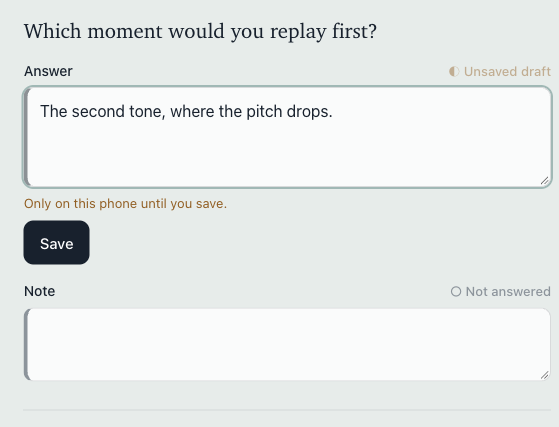
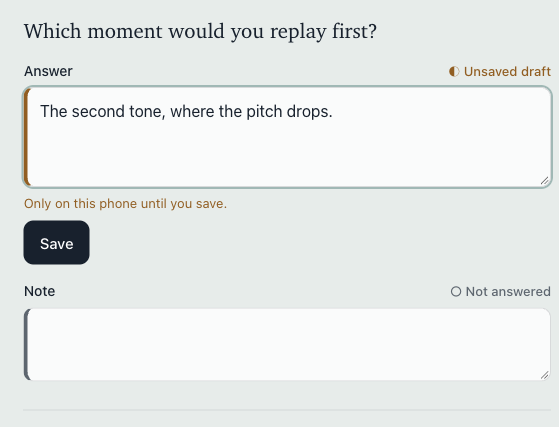
fix(phone-sync): P2a review round 1 (contrast, first-load fade, clamp/scrub tests)
- T2: "Not answered" tone #8A949C -> #5B6670 (about 4.9:1 on the ground); the hollow glyph stays.
- P7: status labels fade in on a state change only, never on first load or when heads arrive.
- F2: the reviewer's three player tests, verbatim: upper and lower seek clamp, and no
  timeupdate yank while scrubbing.
- P1: capture waits for transitions to settle before the draft and speed stills; proof regenerated.

diff --git a/examples/phone-sync-prototype/capsule/client/sync.tsx b/examples/phone-sync-prototype/capsule/client/sync.tsx
@@ -1,6 +1,6 @@
 /** @jsxImportSource preact */
 import type { ComponentChildren } from "preact";
-import { useEffect, useState } from "preact/hooks";
+import { useEffect, useRef, useState } from "preact/hooks";
 import { FIXTURE } from "../shared/protocol";
 import { Player, press } from "./player";
 
@@ -17,7 +17,7 @@ type State = "empty" | "draft" | "saving" | "saved";
 const serif = "[font-family:Charter,'Iowan_Old_Style','Palatino_Linotype',Georgia,serif]";
 const QUESTIONS = [["q-orbit-r1", "Which moment would you replay first?"], ["q-tide-r1", "What should change before the next take?"]];
 const STATES: Record<State, [label: string, glyph: string, tone: string, detail?: string]> = {
-  empty: ["Not answered", "○", "#8A949C"],
+  empty: ["Not answered", "○", "#5B6670"],
   draft: ["Unsaved draft", "◐", "#9A5B0B", "Only on this phone until you save."],
   saving: ["Saving…", "◌", "#1D6B67"],
   saved: ["Saved", "●", "#1D6B67"],
@@ -42,6 +42,9 @@ function Field({ port, device, questionId, field }: { port: Port; device: string
     else localStorage.removeItem(key);
     setDraft(next);
   };
+  // Status labels fade in on a state change only, never on first load (heads arriving included).
+  const settled = useRef(false);
+  useEffect(() => { if (port.heads) settled.current = true; });
   const head = port.heads?.find(h => h.questionId === questionId && h.field === field), revision = head?.revision ?? 0;
   useEffect(() => { if (draft?.landed && revision >= draft.landed) write(null); }, [draft, revision]);
   const state: State = draft?.sent || draft?.landed ? "saving" : draft ? "draft" : head?.canonical ? "saved" : "empty";
@@ -65,7 +68,8 @@ function Field({ port, device, questionId, field }: { port: Port; device: string
     <div data-field={`${questionId}:${field}`} data-state={state} className="mt-4" style={{ "--tone": tone }}>
       <div className="flex items-baseline justify-between gap-3">
         <label htmlFor={id} className="text-[14px] font-medium">{field === "answer" ? "Answer" : "Note"}</label>
-        <span key={state} role="status" className="text-[13px] font-medium text-[var(--tone)] transition-[opacity,transform] duration-200 ease-out starting:opacity-0 motion-safe:starting:translate-y-0.5">
+        <span key={state} role="status" className={"text-[13px] font-medium text-[var(--tone)] " + (settled.current
+          ? "transition-[opacity,transform] duration-200 ease-out starting:opacity-0 motion-safe:starting:translate-y-0.5" : "")}>
           <span aria-hidden="true">{glyph}</span> {label}
         </span>
       </div>

diff --git a/examples/phone-sync-prototype/client.test.tsx b/examples/phone-sync-prototype/client.test.tsx
@@ -59,6 +59,33 @@ test("speed applies to the audio element", async () => {
   expect($("[data-speed='1.5']").getAttribute("aria-pressed")).toBe("true");
 });
 
+test("review: upper seek clamp handles an out-of-range event", async () => {
+  await mount(<Player source={tone} />);
+  const range = $("input[type=range]");
+  Object.defineProperty(range, "value", { configurable: true, value: "1000" });
+  act(() => fire(range, "change"));
+  expect($("audio").currentTime).toBe(6.5);
+});
+
+test("review: lower seek clamp handles an out-of-range event", async () => {
+  await mount(<Player source={tone} />);
+  const range = $("input[type=range]");
+  Object.defineProperty(range, "value", { configurable: true, value: "-1000" });
+  act(() => fire(range, "change"));
+  expect($("audio").currentTime).toBe(0);
+});
+
+test("review: playback cannot yank the seek thumb during scrubbing", async () => {
+  await mount(<Player source={tone} />);
+  const range = $("input[type=range]");
+  range.value = "2.5"; act(() => fire(range, "input"));
+  $("audio").currentTime = 4; act(() => fire($("audio"), "timeupdate"));
+  expect(range.value).toBe("2.5");
+  act(() => fire(range, "change"));
+  $("audio").currentTime = 5; act(() => fire($("audio"), "timeupdate"));
+  expect(range.value).toBe("5");
+});
+
 function View({ h, account }: { h: Harness; account: string }) { return <Answers port={useHarnessPort(h, account)} />; }
 const field = (q: string, f = "answer") => $(`[data-field='${q}:${f}']`);
 const state = (q: string, f = "answer") => field(q, f).getAttribute("data-state");
@@ -75,8 +102,10 @@ test("field states: empty -> unsaved draft -> saving -> saved, refresh-safe", as
   const h = createHarness();
   await mount(<View h={h} account="alice" />);
   expect(state(Q)).toBe("empty");
+  const fades = () => field(Q).querySelector("[role=status]").className.includes("starting:opacity-0");
+  expect(fades()).toBe(false); // no entrance fade on first load
   await type(Q, "Invented answer");
-  expect(state(Q)).toBe("draft");
+  expect([state(Q), fades()]).toEqual(["draft", true]);
   await mount(<View h={h} account="alice" key="refresh" />);
   expect([state(Q), text(Q)]).toEqual(["draft", "Invented answer"]);
   act(() => button(Q, "Save").click());
